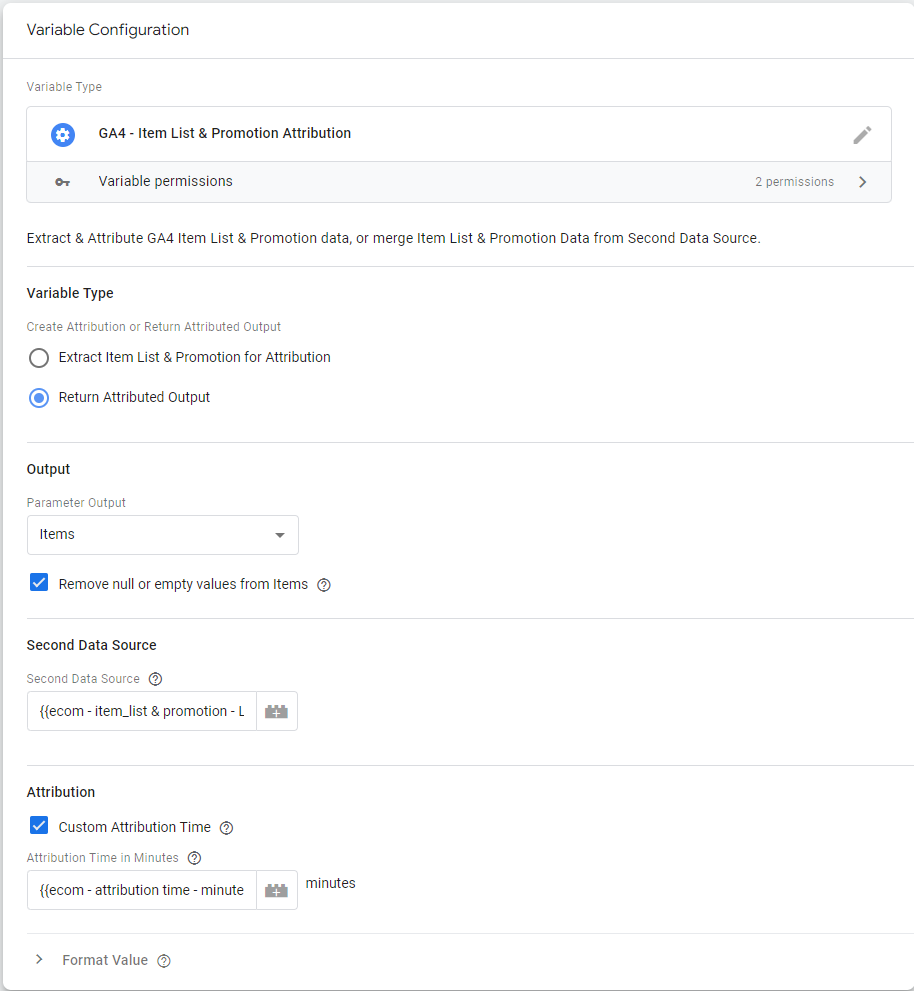
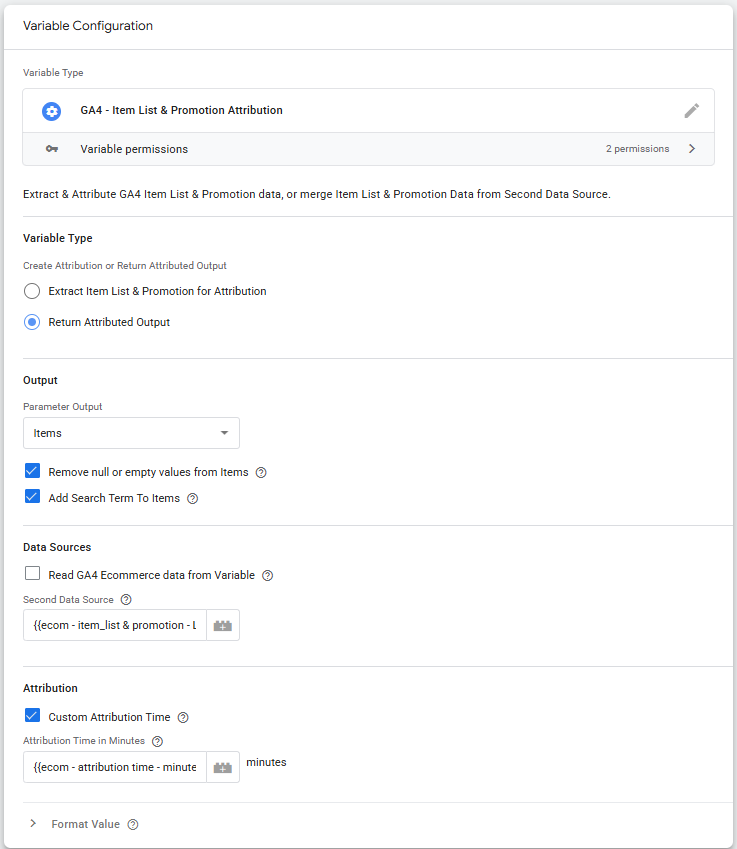
Attribution improvements. Handling of new GA cookie format.

diff --git a/template.js b/template.js
@@ -1,0 +1,201 @@
+const dataLayer = require('copyFromDataLayer');
+const ecom = data.ecomVar && data.ecomInputCheckbox ? data.ecomVar : dataLayer('ecommerce', 1);
+const getTimestampMillis = require('getTimestampMillis');
+const makeInteger = require('makeInteger');
+const makeString = require('makeString');
+const JSON = require('JSON');
+const getCookieValues = require('getCookieValues');
+const Object = require('Object');
+const getType = require('getType');
+
+const jsonData = data.jsonData;
+const secondDataSource = data.secondDataSource && typeof data.secondDataSource === 'string' ? JSON.parse(data.secondDataSource) : data.secondDataSource || undefined;
+
+const event_name = dataLayer('event', 2);
+const items = ecom ? ecom.items : undefined;
+let items2 = secondDataSource ? secondDataSource.items : [{item_id:"helper_id"}];
+let promo2 = secondDataSource ? secondDataSource.promotion : undefined;
+let searchTerm2 = secondDataSource ? secondDataSource.search_term : undefined;
+
+const measurementId = data.measurementId && data.customAttributionTime === false ? data.measurementId.split('-')[1] : undefined;
+const gaCookie = measurementId && makeString(getCookieValues('_ga_' + measurementId));
+let ga_session_id;
+
+if (gaCookie) {
+  // 1) new GS2 format (has $ delimiters)
+  if (gaCookie.indexOf('$') > -1) {
+    // turn all "$" into "." so we only need one split
+    const normalized = gaCookie.split('$').join('.');
+    const segments = normalized.split('.');
+    // find the piece that starts with "s"
+    let sPart;
+    for (let i = 0; i < segments.length; i++) {
+      if (segments[i].charAt(0) === 's') {
+        sPart = segments[i];
+        break;
+      }
+    }
+    // strip off the "s" and convert to integer
+    ga_session_id = sPart ? makeInteger(sPart.substring(1)) : undefined;
+  }
+  // 2) old GS1 format (only dots)
+  else if (gaCookie.indexOf('.') > -1) {
+    const parts = gaCookie.split('.');
+    ga_session_id = parts.length > 2 ? makeInteger(parts[2]) : undefined;
+  }
+}
+
+ga_session_id = ga_session_id && getType(ga_session_id) === 'number' ? ga_session_id : 1800000; // Fallback to 30 minutes "just in case".
+
+const timestamp = data.attributionTime ? getTimestampMillis() : ga_session_id;
+const timestamp2 = secondDataSource ? secondDataSource.timestamp : timestamp;
+const timestampDiff = secondDataSource && data.attributionTime ? timestamp-secondDataSource.timestamp : timestamp;
+const attributionTime = data.attributionTime ? makeInteger(data.attributionTime)*60000 : timestamp2;
+const attributionType = data.attributionType;
+const limitItemsNumber = data.limitItemsNumber;
+
+if(timestampDiff > attributionTime) {
+  items2 = [{item_id:"helper_id"}];
+  promo2 = undefined;
+  searchTerm2 = undefined;
+}
+
+if(data.variableType === 'attribution') {
+  let item_list_id = ecom ? ecom.item_list_id : undefined;
+  let item_list_name = ecom ? ecom.item_list_name : undefined;
+  let creative_name = ecom ? ecom.creative_name : undefined;
+  let creative_slot = ecom ? ecom.creative_slot : undefined;
+  let promotion_id = ecom ? ecom.promotion_id : undefined;
+  let promotion_name = ecom ? ecom.promotion_name : undefined;
+  let location_id = ecom ? ecom.location_id : undefined;
+  let index = ecom ? ecom.index : undefined;
+  
+ if (items) {
+    const mapItemsData = i => {
+      const itemObj = {
+        item_id: i.item_id,
+        item_list_id: i.item_list_id || item_list_id,
+        item_list_name: i.item_list_name || item_list_name,
+        creative_name: i.creative_name || creative_name,
+        creative_slot: i.creative_slot || creative_slot,
+        promotion_id: i.promotion_id || promotion_id,
+        promotion_name: i.promotion_name || promotion_name,
+        location_id: i.location_id || location_id,
+        index: i.index || index
+      };
+      return itemObj;
+    };
+    
+    const items1 = items.map(mapItemsData); 
+    const item_id = items1[0].item_id ? items1[0].item_id : undefined;
+    item_list_id = items1[0].item_list_id ? items1[0].item_list_id : undefined;
+    item_list_name = items1[0].item_list_name ? items1[0].item_list_name : undefined;
+    promotion_id = items1[0].promotion_id ? items1[0].promotion_id : promotion_id;
+    promotion_name = items1[0].promotion_name ? items1[0].promotion_name : promotion_name;
+    creative_name = items1[0].creative_name ? items1[0].creative_name : creative_name;
+    creative_slot = items1[0].creative_slot ? items1[0].creative_slot : creative_slot;
+    location_id = items1[0].location_id ? items1[0].location_id : location_id;
+
+  if (items1 && item_id && (item_list_id || item_list_name || promotion_id || promotion_name)) {
+    const firstClick = attributionType === 'firstClickAttribution';
+    const combined = firstClick ? items2.concat(items1) : items1.concat(items2);  // first vs. last click attribution
+
+    const mergedMap = {};
+    combined.forEach(x => {
+      const id = x.item_id;
+      if (!mergedMap[id]) mergedMap[id] = { item_id: id };
+      const tgt = mergedMap[id];
+
+      ['item_list_id','item_list_name',
+       'promotion_id','promotion_name','creative_name','creative_slot',
+       'location_id','index'
+      ].forEach(field => {
+        if (x[field] !== undefined && tgt[field] === undefined) {
+          tgt[field] = x[field];
+        }
+      });
+    });
+
+    let uniqueItems = Object.keys(mergedMap).map(k => mergedMap[k]);
+    if (limitItemsNumber) {
+      uniqueItems = uniqueItems.slice(0, makeInteger(limitItemsNumber));
+    }
+
+    const extract = {
+      items: uniqueItems,
+      promotion: promo2,
+      search_term: searchTerm2,
+      timestamp:   timestamp
+    };
+    return jsonData ? JSON.stringify(extract) : extract;
+  }
+}
+  
+  if (promotion_id||promotion_name) {
+    const promo = {creative_name: creative_name, creative_slot: creative_slot, promotion_id: promotion_id, promotion_name: promotion_name, location_id: location_id};
+    
+    const promoAttribution = attributionType === 'firstClickAttribution' && promo2 ? promo2 : promo;
+    let extract = {items: items2, promotion: promoAttribution, search_term: searchTerm2, timestamp: timestamp};
+      extract = jsonData && extract ? JSON.stringify(extract) : extract;
+        return extract;
+  }
+  const searchTerm = data.siteSearchChecbox && data.searchTerm ? data.searchTerm : undefined;
+  if (searchTerm) {
+    const siteSearchttribution = attributionType === 'firstClickAttribution' && searchTerm2 ? searchTerm2 : searchTerm;
+    let extract = {search_term: siteSearchttribution, items: items2, promotion: promo2, timestamp: timestamp};
+      extract = jsonData && extract ? JSON.stringify(extract) : extract;
+        return extract;
+  }
+}
+else if (data.variableType === 'output') {
+  let output;
+  const param = data.outputDropDown;
+  if (param === 'promotion_id') {
+    output = promo2 ? promo2.promotion_id : undefined;
+  } else if (param === 'promotion_name') {
+    output = promo2 ? promo2.promotion_name : undefined;
+  } else if (param === 'creative_name') {
+    output = promo2 ? promo2.creative_name : undefined;
+  } else if (param === 'creative_slot') {
+    output = promo2 ? promo2.creative_slot : undefined;
+  } else if (param === 'location_id') {
+    output = promo2 ? promo2.location_id : undefined;
+  } else if (param === 'search_term') {
+    output = searchTerm2 ? searchTerm2 : undefined;
+  } else if (param === 'items' && items) {
+    items.forEach(item => {
+      if(data.itemSearchTerm && searchTerm2 ) {
+        item.search_term = searchTerm2;
+      }
+      items2.forEach(item2 => {
+        if (item.item_id === item2.item_id) {
+          item.item_list_id = item.item_list_id || item2.item_list_id || undefined;
+          item.item_list_name = item.item_list_name || item2.item_list_name || undefined;
+          item.creative_name = item.creative_name || item2.creative_name || undefined;
+          item.creative_slot = item.creative_slot || item2.creative_slot || undefined;
+          item.promotion_id = item.promotion_id || item2.promotion_id || undefined;
+          item.promotion_name = item.promotion_name || item2.promotion_name || undefined;
+          item.location_id = item.location_id || item2.location_id || undefined;
+          item.index = item.index || item2.index || undefined;
+        }
+    });
+  });
+    output = items ? items : undefined;
+      
+    if(data.removeNullfromItems && output) {
+      output.forEach(function(object){
+        for(let key in object) {
+          if(object[key] === null || object[key] === '' || object[key] === 'null' || object[key] === 'undefined')
+            object[key] = undefined;
+          }
+      });    
+    }
+  }
+  return output;
+}
+
+if(data.deleteAttribution === true && event_name === 'purchase') {
+  let extract = {search_term:undefined,items:[{item_id:"helper_id"}],promotion:undefined,timestamp:timestamp};
+      extract = jsonData && extract ? JSON.stringify(extract) : extract;
+        return extract;
+}

diff --git a/README.md b/README.md
@@ -1,14 +1,15 @@
 # GA4 - Item List & Promotion Attribution - GTM Variable (Web)
-**Google Analytics 4 (GA4)** has **Item List & Promotion reports**. But, unlike **Enhanced Ecommerce**, no revenue or conversions are attributed back to Promotion or Item Lists (at the time of creating this solution).
+**Google Analytics 4 (GA4)** has **Item List & Promotion reports**. But - no revenue or conversions are attributed back to Promotion or Item Lists. You have to do this attribution yourself.
 
-This Variable Template for **GTM (Web)** makes it possible to attribute **GA4 Item List, Promotion & Search Term** to revenue or ecommerce Events (ex. purchase):
+This Variable Template for **GTM (Web)** makes it possible to attribute **GA4 Item List, Promotion & Search Term** to revenue or ecommerce Events (ex. purchase) & Items:
+
 * Last Click Attribution
 * First Click Attribution
 * Reset/delete Attribution Data after Purchase
 * Attribution Time (for how long should Item List or Promotion be attributed)
   * Attribution Time can be either **GA4 Session** or **Custom Attribution Time**
 
-![GA4 Item List Attribution example](https://github.com/gtm-templates-knowit-experience/gtm-ga4-ecom-item-list-promo-attribution/blob/main/images/ga4-item-list-attribution-animation.gif)
+![GA4 Item List Attribution example](images/ga4-item-list-attribution-animation.gif)
 
 A similar Variable [do also exist for **Server-side GTM**](https://github.com/gtm-templates-knowit-experience/sgtm-ga4-ecom-item-list-promo-attribution). Differences between doing the attribution with GTM (Web) vs. Server-side GTM are listed below.
 
@@ -45,7 +46,7 @@ Create this variable if you are going to use **Custom Attribution Time**.
 Since attribution time is referenced in several variables, it’s recommended to create a Constant Variable with the attribution time in minutes.
 How long the attribution time should be is up to you. Time is counted from the last **select_promotion**, **select_item** or **add_to_cart** Event. 
 
-![ecom - attribution time - minutes – C](https://github.com/gtm-templates-knowit-experience/sgtm-ga4-ecom-item-list-promo-attribution/blob/main/images/ecom-attribution%20time-minutes-C.png)
+![ecom - attribution time - minutes – C](images/ecom-attribution-time-minutes-C.png)
 
 * Name the Variable **ecom - attribution time - minutes - C**.
 
@@ -56,7 +57,7 @@ For some unknown reason, this Variable doesn't allow any Key to be used without 
 *	**Action:** get
 *	**Key:** internal
 
-![ecom - item_list & promotion - Local Storage](https://github.com/gtm-templates-knowit-experience/gtm-ga4-ecom-item-list-promo-attribution/blob/main/images/Variable-Local-Storage.png)
+![ecom - item_list & promotion - Local Storage](images/Variable-Local-Storage.png)
 
 * Name the Variable **ecom - item_list & promotion - Local Storage**.
 
@@ -81,7 +82,7 @@ Select the **GA4 Ecommerce – Item List & Promotion Attribution** Variable (thi
   * **Handle data as string:** This will save attribution data as a string. Tick this box with this setup.
   * **Limit Items:** This will limit number of Items stored. You should probably limit number of items, but that is up to you. You can store up to 5MB in Local Storage.
 
-![ecom - item_list & promotion - extract – CT](https://github.com/gtm-templates-knowit-experience/gtm-ga4-ecom-item-list-promo-attribution/blob/main/images/gtm-ga4-item_list-and-promotion-extract-CT.png)
+![ecom - item_list & promotion - extract – CT](images/gtm-ga4-item_list-and-promotion-extract-CT.png)
 
 * Name the Variable **ecom - item_list & promotion - extract - CT**.
 
@@ -91,6 +92,8 @@ Select the **GA4 Ecommerce – Item List & Promotion Attribution Variable** (thi
 
 * **Variable Type:** Return Attributed Output
 * **Output:** Items
+* **Add Search Terms To Items:** If you tick this checkbox, **search_term** will be added to **items**. This makes it easier to report search_term related to items. You must create an **Item scoped Dimension** in GA4.
+  * This selection is only available for **Items**
 * **Remove null or empty values from Items:** Check this box if your implementation have Item Dimensions with null, "null", "undefined" or empty values.
 * **Second Data Source:** {{ecom - item_list & promotion - Local Storage}}
 * Attribution
@@ -98,7 +101,7 @@ Select the **GA4 Ecommerce – Item List & Promotion Attribution Variable** (thi
      * **Attribution Time in Minutes:** {{ecom - attribution time - minutes - C}}
    * **Measurement ID:** Insert the same **GA4 ID** as you are using in the **GA4 Configuration Tag**. Note: This option is not visible if you have chosen **Custom Attribution Time**
 
-![ecom - items - item_list & promotion - merge – CT](https://github.com/gtm-templates-knowit-experience/gtm-ga4-ecom-item-list-promo-attribution/blob/main/images/gtm-ga4-items-item_list-and-promotion-merge-CT.png)
+![ecom - items - item_list & promotion - merge – CT](images/gtm-ga4-items-item_list-and-promotion-merge-CT.png)
 
 *	Name the Variable **ecom - items - item_list & promotion - merge - CT**.
 
@@ -124,7 +127,7 @@ Create a **Custom Event Trigger** with the following settings:
 *	**This trigger fires on:* Some Custom Events
 *	**ecom – item_list & promotion – extract – CT** _does not equal_ undefined
 
-![ecom - select_item, select_promotion & add_to_cart](https://github.com/gtm-templates-knowit-experience/gtm-ga4-ecom-item-list-promo-attribution/blob/main/images/Trigger-Local-Storage-Tag.png)
+![ecom - select_item, select_promotion & add_to_cart](images/Trigger-Local-Storage-Tag.png)
 
 *	Name the Trigger **ecom - attribute Events**.
 
@@ -137,7 +140,7 @@ Select the **Local Storage Interact** Tag, and add the following settings:
 * **Key:** internal
 * **Value:** {{ecom - item_list & promotion - extract - CT}}
 
-![Ecom - Item List & Promotion Attribution – Local Storage](https://github.com/gtm-templates-knowit-experience/gtm-ga4-ecom-item-list-promo-attribution/blob/main/images/Tag-Local-Storage.png)
+![Ecom - Item List & Promotion Attribution – Local Storage](images/Tag-Local-Storage.png)
 
 * Add **ecom - select_item, select_promotion & add_to_cart** as a Trigger to the Tag.
 * * If you want to track **search_term**, add the same Trigger as you are using for tracking your **view_search_results** Event.
@@ -169,7 +172,7 @@ The following Parameters should be changed in the Tags with those Events:
 | location_id | {{ecom - location_id - merge - CT}} |	 If Promotion without Items is implemented |
 | search_term | {{ecom - search_term - merge - CT}} |	 If you want to attribute search_term |
 
-![GA4 Tag - Parameters](https://github.com/gtm-templates-knowit-experience/gtm-ga4-ecom-item-list-promo-attribution/blob/main/images/Tag-GA4-Tag.png)
+![GA4 Tag - Parameters](images/Tag-GA4-Tag.png)
 
 Your GTM (Web) setup is now complete.
 
@@ -207,17 +210,17 @@ In the setup you will see that Data Layer is mostly Version 1. The **[GA4 Ecom I
 ### select_promotion & view_promotion
 This setup handles both **select_promotion** & **view_promotion**, where promotion also has **Event-level Item Lists**. **location_id** is set to **Page Path**.
 
-![select_promotion & view_promotion](https://github.com/gtm-templates-knowit-experience/sgtm-ga4-ecom-item-list-promo-attribution/blob/main/images/gtm-ga4-tag-select_promotion.png)
+![select_promotion & view_promotion](images/gtm-ga4-tag-select_promotion.png)
 
 ### select_item & view_item_list
 This setup handles both **select_item** & **view_item_list**, with **Event-level Item Lists**. **location_id** is set to **Page Path**.
 
-![select_promotion & view_promotion](https://github.com/gtm-templates-knowit-experience/sgtm-ga4-ecom-item-list-promo-attribution/blob/main/images/gtm-ga4-tag-select_item.png)
+![select_promotion & view_promotion](images/gtm-ga4-tag-select_item.png)
 
 ### add_to_cart & view_item
 This setup handles **add_to_cart** & **view_item**. **location_id** in this setups is also **Page Path**, but Page Path will only be returned if **item_list_name** or **item_list_id** exist. Otherwise **location_id** will be **undefined**.
 
-![select_promotion & view_promotion](https://github.com/gtm-templates-knowit-experience/sgtm-ga4-ecom-item-list-promo-attribution/blob/main/images/gtm-ga4-tag-add_to_cart-view_item.png)
+![select_promotion & view_promotion](images/gtm-ga4-tag-add_to_cart-view_item.png)
 
 ## Attribution explained
 
@@ -229,13 +232,14 @@ Attribution happens on 2 levels:
     - Search Term
 2. Item-level
     - Implemented Items data (ex. Item List name) trumps attributed Items data. Ex. if you are adding a Item to cart directly from a Item List, the implemented Item List Name will be used. If you are adding the Item to cart from a product page (where you shouldn't have a Item List implemented), the attributed Item List Name will be used.
+	- Item Scoped Item List & Promotion attribution are independent of each other. 
 
 * Item-level trumps the Event-level.
   * Promotion without Items will not be attributed to a Item when Promotion with Items are attributed 
 
 To get a better understanding of the attribution, it's recommended to run some test scenarios where you inspect your own data:
-* Run **GTM (Web)** in **Preview Mode**
-* Look at the **Local Storage** data being built or rewritten
+* Run **GTM** in **Preview Mode**
+* Look at the **Local Storage or Cookies** data being built or rewritten
 * Inspect especially **Items** in **GA4 DebugView**
 
 ### Last Click Attribution
@@ -245,7 +249,7 @@ With a Last Click Attribution model, this user journey illustrates the attributi
 2. The user clicks next on a promotion for a bundled phone with earbuds package (“**Promotion 3 with Items**”). This promotion has 2 items attached, the phone and the earbuds. This promotion is attached to the 2 different Item Id’s (**item_id = phone1** and **item_id = earbud2**) and is therefore an Item-level promotion. 
    -	User adds this bundle with 2 items to cart. The add_to_cart Event is attributed to the promotion.
       - User clicks after that on the “**Users Also Looked At**” Item List with other earbuds that it’s also possible to choose. The earbud (item_id = earbud3) the user clicked on is attributed to the “Users Also Looked At” item list. 
-        - On this page, there is also an “Users Also Looked At” item list. User clicks on the first selected earbud (**item_id = earbud2**). The earbud is now attributed to the “Users Also Looked At” item list and is no longer attributed to the initial Item-level promotion.
+        - On this page, there is also an “Users Also Looked At” item list. User clicks on the first selected earbud (**item_id = earbud2**). The earbud is now attributed to the “Users Also Looked At” item list, but is still attributed to the initial Item-level promotion. This because Item Lists and Promotion attribution are independent.
 3. User completes the purchase, and GA4 adds some logic to the result, namely that Item-level trumps the Event-level.
     - The phone (**item_id = phone1**) is attributed to the “**Promotion 3 with Items**” promotion. The promotion didn’t have any Item List, so no Item Lists are attributed. If the promotion also had an Item List, this list would have been attributed.
     - The earbud (**item_id = earbud2**) is attributed to the “**Users Also Looked At**” item list, but in addition, since this item doesn’t have any Item-level promotion, the Event-level promotion “**Promotion 2 without Items**” is also attributed to the earbud. 
@@ -255,5 +259,6 @@ With a Last Click Attribution model, this user journey illustrates the attributi
 In the same scenario, but using First Click Attribution, this would be the result:
 
 1.	Both the phone (**item_id = phone1**) and the earbud (**item_id = earbud2**) would both be attributed to the Item-level “**Promotion 3 with Items**” bundle promotion.
-    - “**Users Also Looked At**” item list would not be attributed to the sale.
+    - “**Users Also Looked At**” item list would also be attributed to the sale, since Item Scoped Item Lists & Promotion are independent.
     - None of the Event-level promotions “**Promotion 1 without Items**” or “**Promotion 2 without Items**” would be attributed since Item-level trumps Event-level.
+
